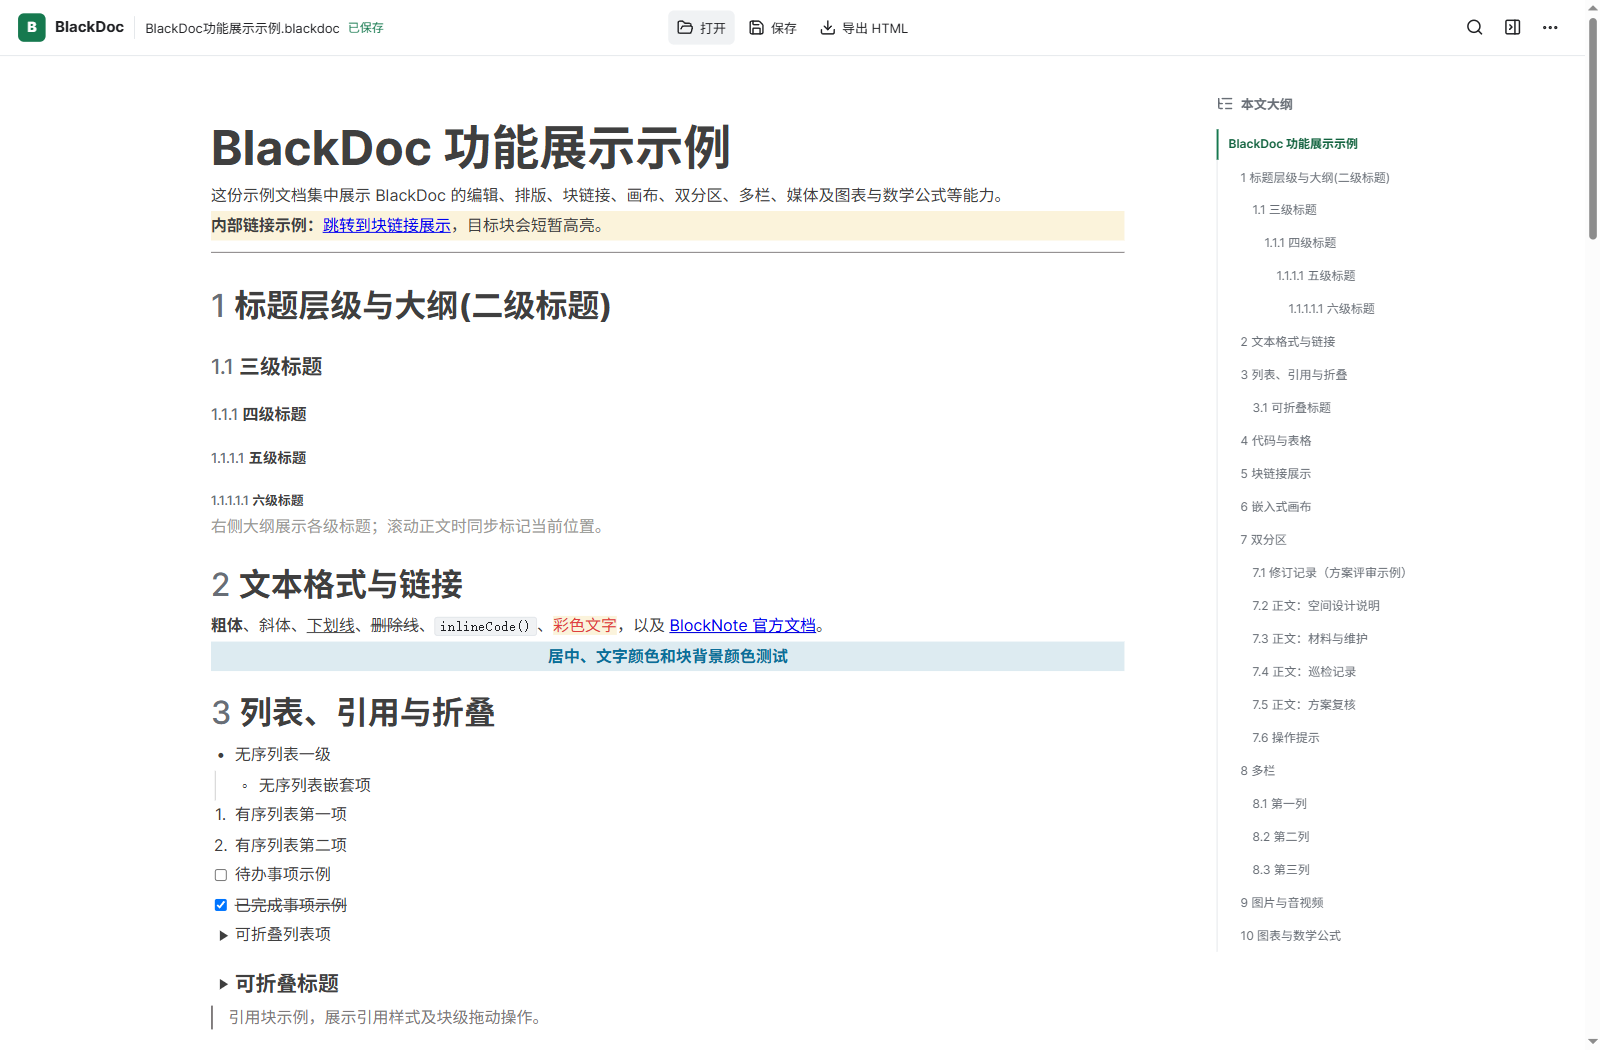
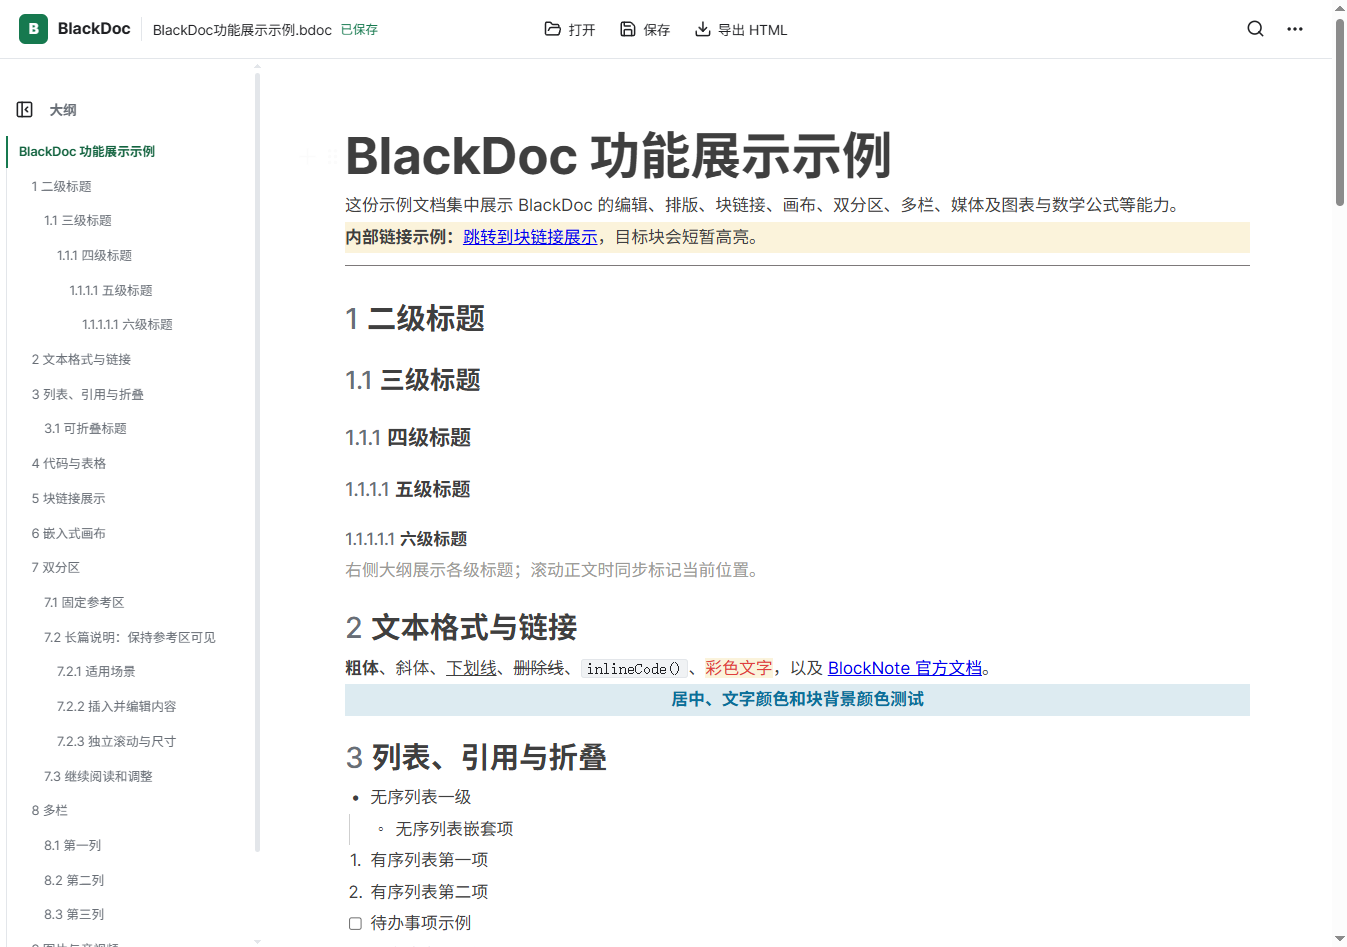
更新 README 截图并补充下载说明

diff --git a/README.md b/README.md
@@ -1,10 +1,14 @@
 # BlackDoc
 
-![BlackDoc 编辑器与文档大纲](docs/images/editor-overview.png)
+![BlackDoc 编辑器界面，文档大纲位于左侧](docs/images/editor-overview.png)
 
 BlackDoc 是一款基于 BlockNote 和 Tauri 的 Windows 桌面块编辑器。文档以可继续编辑的 `.bdoc` 文件保存在本地，也可以导出为便于分享的单文件 HTML。
 
 旧版 `.blackdoc` 文档仍可打开，并可继续保存到原文件；另存为时默认使用 `.bdoc`。
+
+## 下载
+
+Windows x64 用户可从 [GitHub Releases](https://github.com/inuyasha1692/BlackDoc/releases/latest) 下载最新版安装包。安装后可在【更多操作】→【关于与更新】检查更新，并通过应用内下载、查看进度和重启完成安装。
 
 ## 主要特色
 
